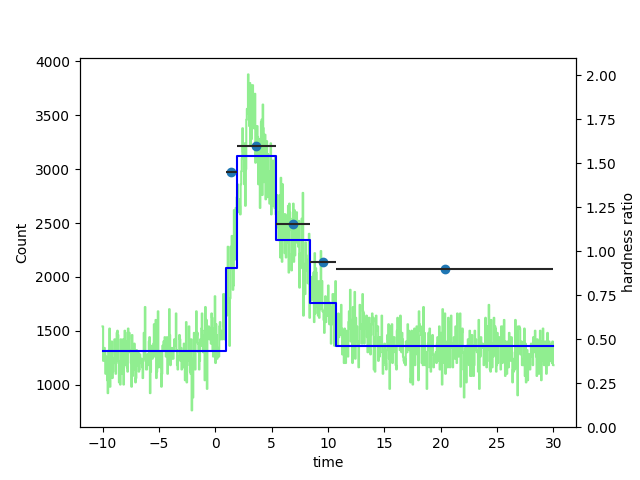
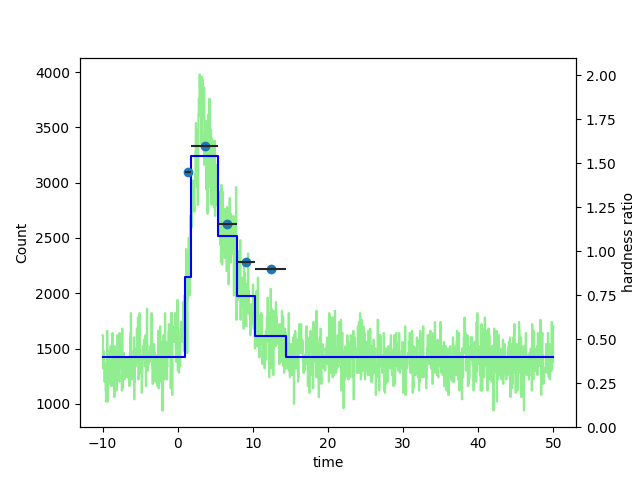
BB- hardnessratio

diff --git a/GBM_hardnessratio_analysis_catalog.py b/GBM_hardnessratio_analysis_catalog.py
@@ -484,9 +484,7 @@ class GRB:
 		plottime=histbin
 		plotrate=histvalue/(histbin[1:]-histbin[:-1])
 		plotrate=np.concatenate(([plotrate[0]],plotrate)) 
-		ax1.plot(plottime,plotrate,linestyle='steps',color='b')
-		ax1.set_xlabel('time')
-		ax1.set_ylabel('Count')
+
 		l=len(edges)		
 		for i in range(1,l-1):
 			time_slice.append(edges[i])
@@ -522,9 +520,7 @@ class GRB:
 		ax1.set_xlabel('time')
 		ax1.set_ylabel('Count')
 		l=len(edges)		
-		for i in range(1,l-1):
-			time_slice.append(edges[i])
-		print(time_slice)
+
 		
 		x=[]
 		dx=[]
@@ -533,8 +529,8 @@ class GRB:
 			z=(edges[i+2]-edges[i+1])/2
 			x.append(s)
 			dx.append(z)
-		print('x',x)
-		print(dx)
+		
+		
 		
 		dy=[epeak_error_p,epeak_error_n]
 		
@@ -552,13 +548,10 @@ class GRB:
 		print(file)
 		fitfile=file[0]	
 		hdu=fits.open(fitfile)
-		trigtime=hdu['Primary'].header['TRIGTIME']
-		data=hdu['EVENTS'].data
-		time=data.field(0)-trigtime
-		ch=data.field(1)
-		goodindex=(ch>=ch1) & (ch<=ch2)  
-		time=time[goodindex]		
-		tte=time[(time>-10)&(time<30)]
+		data=hdu['events'].data['time']
+		trigtime=hdu[0].header['trigtime']
+		time=data-trigtime
+		tte=time[(time>-10)&(time<50)]
 		fig = plt.figure()
 		ax1 = fig.add_subplot(111)
 		ax2 = ax1.twinx()
@@ -579,7 +572,8 @@ class GRB:
 		x=[]
 		dx=[]
 		l=len(edges)	
-		for i  in range(l-2):    
+		print('edges',edges)
+		for i  in range(l-3):    
 			s=(edges[i+1]+edges[i+2])/2
 			z=(edges[i+2]-edges[i+1])/2
 			x.append(s)
@@ -598,12 +592,13 @@ class GRB:
 		start=edges[:-1]
 		stop=edges[1:]
 		ever_rate=[]
-		print(x)
+		print('x',x)
+		print(dx)
 		for index,item in enumerate(start):
 			t=np.where((self.tbins>=item)&(self.tbins<=stop[index]))[0]
 			eva=hardness[t].mean()
 			ever_rate.append(eva)		
-		print(ever_rate)
+		print('rate',ever_rate)
 
 		ax2.scatter(x,ever_rate)
 		ax2.errorbar(x,ever_rate,xerr=dx,zorder=1, fmt='o',color = '0.15',markersize=1e-50)
@@ -612,7 +607,7 @@ class GRB:
 		plt.savefig('hardness_ratio.png')
 
 for n in range(1,nl):
-	os.chdir('/home/yao/Study/hardness_radio')    
+	os.chdir('/home/yao/Study/hardness-ratio')    
 	bnname=name[n]
 	print(bnname)
 	number=trigger_name.tolist().index(bnname)
@@ -632,13 +627,13 @@ for n in range(1,nl):
 	grb.rawlc(viewt1=-50,viewt2=300,binwidth=0.07)
 	grb.base(baset1=-50,baset2=200,binwidth=0.07)
 
-	for i in range(z-1):
-		grb.phaI(slicet1=time_slice[i],slicet2=time_slice[i+1])        
-		grb.specanalyze('slice'+str(i))
+	#for i in range(z-1):
+	#	grb.phaI(slicet1=time_slice[i],slicet2=time_slice[i+1])        
+	#	grb.specanalyze('slice'+str(i))
 	
-	print('epeak',epeak)
+	#print('epeak',epeak)
 	grb.hardness_ratio(lcbinwidth=0.05)
-	grb.bbduration(lcbinwidth=0.05,gamma=1e-300)
+	#grb.bbduration(lcbinwidth=0.05,gamma=1e-300)
 	epeak=[]
 	epeak_error_p=[]
 	epeak_error_n=[]
